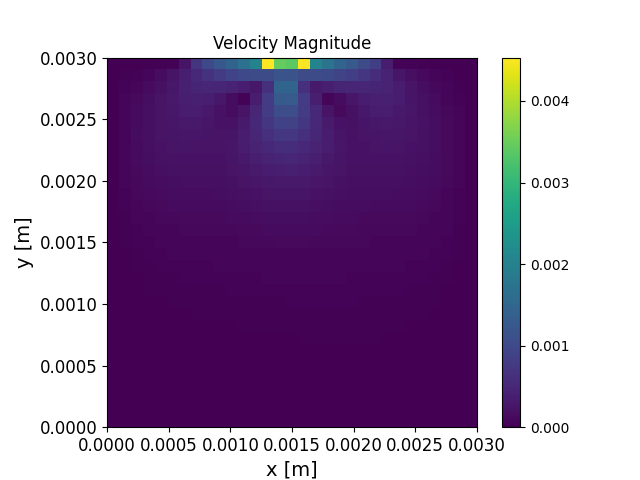
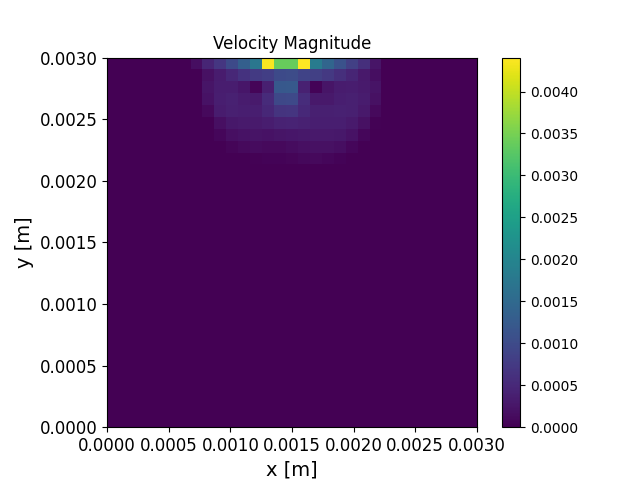
Updated masking for temperature.

diff --git a/report_code/velocityMethods.py b/report_code/velocityMethods.py
@@ -3,14 +3,24 @@ import tempMethods
 
 from numba import jit
 
-from convection import compute_convection_u, compute_convection_v
-from laplacian import compute_laplacian
+from advection import compute_advection_u, compute_advection_v
+from diffusion import compute_diffusion
 
 @jit
 def fractional_step_method(u, v, psi, T, nu, dt, dx, dy, Nx, Ny, q, solverID, tol, mu,dSigma,tMelt,rho):
     """
     Fractional step method for velocity field computation
     """
+
+    T_x = np.zeros_like(u)
+    T_y = np.zeros_like(v)
+
+    T_x[1:-1, :] = 0.5 * (T[:-1, :] + T[1:, :])
+    T_y[:, 1:-1] = 0.5 * (T[:, :-1] + T[:, 1:])
+
+    boolMask_x = T_x > tMelt
+    boolMask_y = T_y > tMelt
+    boolMask_p = T > tMelt
 
     # print("u.shape", u.shape)
     # print("v.shape", v.shape)
@@ -22,14 +32,14 @@ def fractional_step_method(u, v, psi, T, nu, dt, dx, dy, Nx, Ny, q, solverID, to
     # print("u_interpolated: ", u_interpolated.shape)
     # print("v_interpolated: ", v_interpolated.shape)
 
-    conv_u = compute_convection_u(u, v_interpolated, dx, dy) # (32, 31)
-    conv_v = compute_convection_v(v, u_interpolated, dx, dy) # (31, 32)
+    conv_u = compute_advection_u(u, v_interpolated, dx, dy) # (32, 31)
+    conv_v = compute_advection_v(v, u_interpolated, dx, dy) # (31, 32)
 
     # print("conv_u: ", conv_u.shape)
     # print("conv_v: ", conv_v.shape)
 
-    lap_u = compute_laplacian(u, dx, dy) # (32, 31)
-    lap_v = compute_laplacian(v, dx, dy) # (31, 32)
+    lap_u = compute_diffusion(u, dx, dy) # (32, 31)
+    lap_v = compute_diffusion(v, dx, dy) # (31, 32)
 
     # print("lap_u: ", lap_u.shape)
     # print("lap_v: ", lap_v.shape)
@@ -103,6 +113,10 @@ def fractional_step_method(u, v, psi, T, nu, dt, dx, dy, Nx, Ny, q, solverID, to
 
     # Marangoni surface velocity
     u[:, -1] = tempMethods.surfaceVelocity(u, T, mu, dx, dt, dSigma, tMelt, rho)
+
+    u = u * boolMask_x
+    v = v * boolMask_y
+    p = p * boolMask_p
 
     return p, u, v 
 

diff --git a/report_code/advection.py b/report_code/advection.py
@@ -2,9 +2,9 @@ import numpy as np
 from numba import jit
 
 @jit
-def compute_convection_u(u, v_interpolated, dx, dy):
+def compute_advection_u(u, v_interpolated, dx, dy):
     """
-    Computes the convection term for u-momentum (Equation A13).
+    Computes the advection term for u-momentum (Equation A13).
     """
     conv = np.zeros_like(u)
 
@@ -30,9 +30,9 @@ def compute_convection_u(u, v_interpolated, dx, dy):
     return conv # (32, 31)
 
 @jit
-def compute_convection_v(v, u_interpolated, dx, dy):
+def compute_advection_v(v, u_interpolated, dx, dy):
     """
-    Computes the convection term for v-momentum (Equation A13).
+    Computes the advection term for v-momentum (Equation A13).
     """
     conv = np.zeros_like(v)
 

diff --git a/report_code/diffusion.py b/report_code/diffusion.py
@@ -2,16 +2,12 @@ import numpy as np
 from numba import jit
 
 @jit
-def compute_laplacian(v, dx, dy):
-    """
-    Computes laplacian
-    """
-
-    laplacian = np.zeros_like(v)
+def compute_diffusion(v, dx, dy):
+    diffusion = np.zeros_like(v)
 
     d2vdx2 = (v[2:, 1:-1] - 2*v[1:-1, 1:-1] + v[:-2, 1:-1]) / dx**2
     d2vdy2 = (v[1:-1, 2:] - 2*v[1:-1, 1:-1] + v[1:-1, :-2]) / dy**2
-    laplacian[1:-1, 1:-1] = d2vdx2 + d2vdy2
+    diffusion[1:-1, 1:-1] = d2vdx2 + d2vdy2
 
-    return laplacian
+    return diffusion
 
